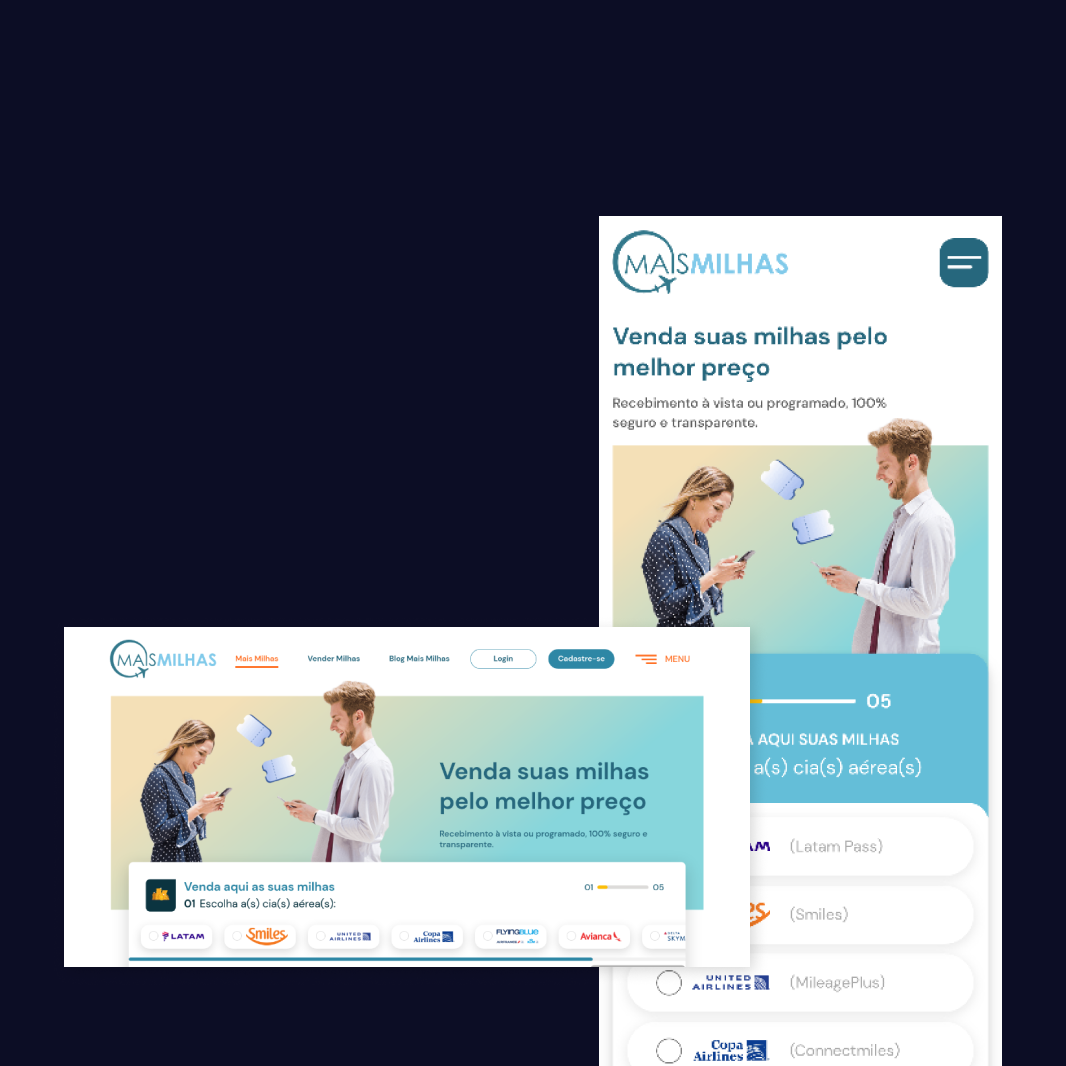
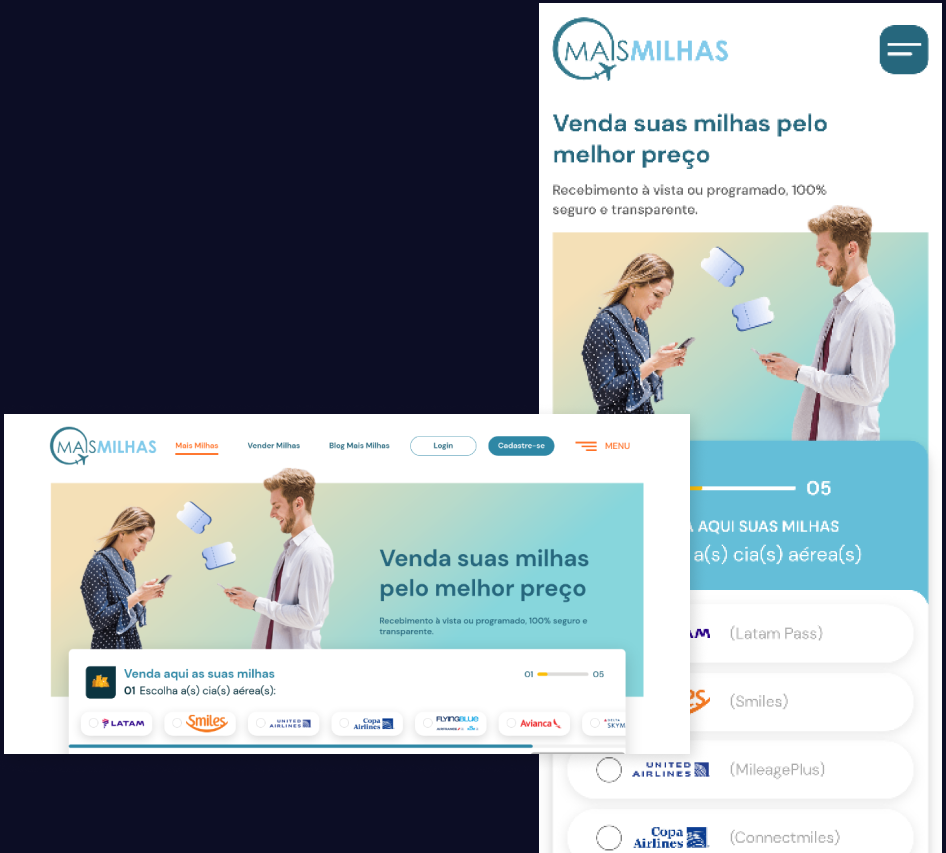
fixed: add images

diff --git a/src/shared/components/Cases/cases.js b/src/shared/components/Cases/cases.js
@@ -1,7 +1,10 @@
+import projeto1 from '@images/projects/project1.png'
+import projeto2 from '@images/projects/project2.png'
+
 export default [
   {
     title: "Mais Milhas",
-    image: "",
+    image: projeto1,
     description: "Uma plataforma para a compra e venda de milhas aéreas",
     articles: [
       {
@@ -16,22 +19,7 @@ export default [
   },
   {
     title: "Project 2",
-    image: "",
-    description: "Uma plataforma para a compra e venda de milhas aéreas",
-    articles: [
-      {
-        description:
-          "Lorem ipsum dolor sit amet, consectetur adipisicing elit. Exercitationem quidem, deleniti porro et tempore earum voluptas rerum vitae ratione nam enim aperiam. Ratione, nihil?",
-      },
-      {
-        description:
-          "Exercitationem quidem, deleniti porro et tempore earum voluptas rerum vitae ratione nam enim aperiam. Ratione, nihil?",
-      },
-    ],
-  },
-  {
-    title: "Project 3",
-    image: "",
+    image: projeto2,
     description: "Uma plataforma para a compra e venda de milhas aéreas",
     articles: [
       {

diff --git a/src/shared/components/Cases/components/CardCase/index.jsx b/src/shared/components/Cases/components/CardCase/index.jsx
@@ -10,7 +10,9 @@ const CardCase = ({ item, active }) => {
     <div className={`CardCase ${active ? "active" : ""}`}>
       <div className="card_body">
         <div className="column">
-          <div className="card_image"></div>
+          <div className="card_image">
+            <img src={item.image} />
+          </div>
         </div>
         <div className="column">
           <div className="card_description">

diff --git a/src/shared/components/Cases/components/CardCase/styles.scss b/src/shared/components/Cases/components/CardCase/styles.scss
@@ -26,9 +26,14 @@
       &:first-child {
         .card_image {
           margin: 20px;
-          height: 400px;
+          height: 450px;
+          display: flex;
           border: solid 1px #000;
           background-color: #0c0d25;
+          img{
+            height: 100%;
+            margin: auto;
+          }
         }
       }
       &:last-child {
